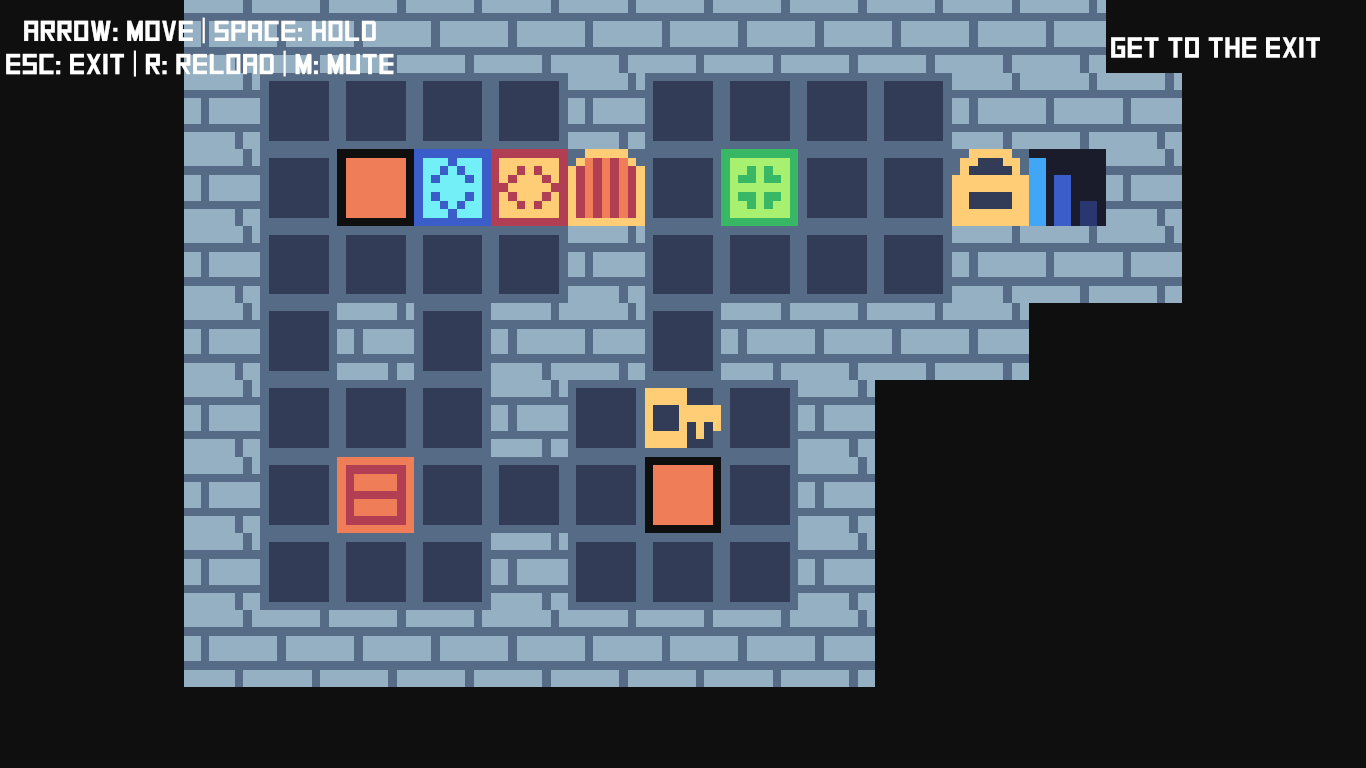
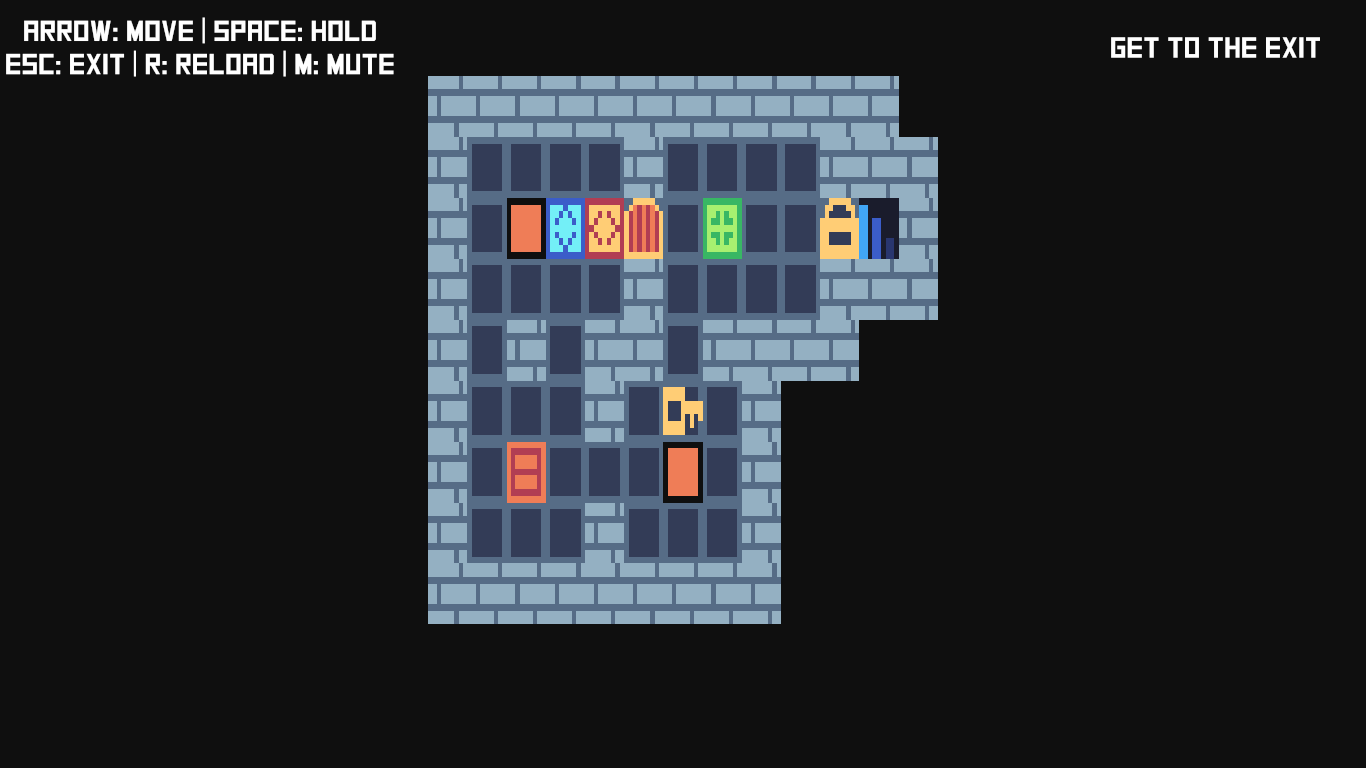
Slight camera logic change -- not sure I like it...

diff --git a/src/entity/mod.rs b/src/entity/mod.rs
@@ -373,6 +373,15 @@ pub(crate) fn make_camera(world: &mut World, level_handle: &Handle<GameLevel>) -
         level.dimensions
     };
 
+    let x_cam_dim: f32 = {
+        let initial: f32 = (16 * size_x).into();
+        initial * 1.4
+    };
+    let y_cam_dim: f32 = {
+        let initial: f32 = (9 * size_y).into();
+        initial * 1.4
+    };
+
     let (x_adjust, y_adjust): (f32, f32) = (
         (size_x * GRID_SIZE / 2).into(),
         (size_y * GRID_SIZE / 2).into(),
@@ -380,7 +389,7 @@ pub(crate) fn make_camera(world: &mut World, level_handle: &Handle<GameLevel>) -
 
     world
         .create_entity()
-        .with(Camera::standard_2d(1280.0/8.0, 720.0/8.0))
+        .with(Camera::standard_2d(x_cam_dim, y_cam_dim))
         .with({
             // I just want to call Transform::from_xyz(x, y, z)...
             let mut transform = Transform::default();
